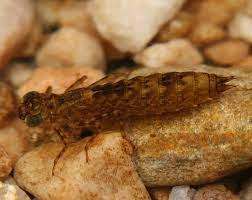
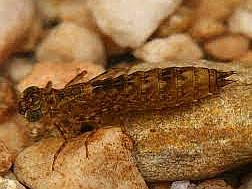
more picture work

diff --git a/catches/templates/catches/home.html b/catches/templates/catches/home.html
@@ -33,10 +33,16 @@
 		<div class="col-md-4">
 			<div class="card border-0 bg-transparent">
 				<a href="{% url 'lake_list' %}" class="card-link"> 
-					<img src="{% static 'catches/site/Mitchel.jpeg' %}" class="card-img-top border-0 rounded" width="100" height="245" alt="...">
+					<img src="{% static 'catches/site/Mitchel.jpeg' %}" class="card-img-top border-0 rounded" height="245" alt="...">
 					<div class="card-body">
-						<h5 class="card-title ">LAKES</h5>
-						<p class="card-text"><small class="text-muted">All Stocked lakes in the province</small></p>
+						<div class="row">
+							<div class="col-md-4">
+								<h5 class="card-title">LAKES</h5>
+							</div>
+							<div class="col-md-8 text-end">
+								<small class="text-muted">All Stocked lakes in the province</small>
+							</div>
+						</div>
 					</div>
 				</a>
 			</div>
@@ -44,10 +50,16 @@
 		<div class="col-md-4">
 			<div class="card border-0 bg-transparent">
 				<a href="{% url 'fish_list' %}" class="card-link">
-					<img src="{% static 'catches/site/tiger-trout.jpeg' %}" class="card-img-top border-0 rounded" width="100" height="245" alt="...">
+					<img src="{% static 'catches/site/tiger-trout.jpeg' %}" class="card-img-top border-0 rounded" height="245" alt="...">
 					<div class="card-body">
-						<h5 class="card-title">FISH</h5>
-						<p class="card-text"><small class="text-muted">The fish we catch</small></p>
+						<div class="row">
+							<div class="col-md-6">
+								<h5 class="card-title">FISH</h5>
+							</div>
+							<div class="col-md-6 text-end">
+								<small class="text-muted">The fish we catch</small>
+							</div>
+						</div>
 					</div>
 				</a>
 			</div>
@@ -55,10 +67,16 @@
 		<div class="col-md-4">
 			<div class="card border-0 bg-transparent">
 				<a href="{% url 'bug_list' %}" class="card-link">
-					<img src="{% static 'catches/site/damselfly_nymph.jpg' %}" class="card-img-top border-0 rounded" width="100" height="245" alt="...">
+					<img src="{% static 'catches/site/dragon_nymph.jpeg' %}" class="card-img-top border-0 rounded" height="245" alt="...">
 					<div class="card-body">
-						<h5 class="card-title">BUGS</h5>
-						<p class="card-text"><small class="text-muted">What the fish eat</small></p>
+						<div class="row">
+							<div class="col-md-4">
+								<h5 class="card-title">BUGS</h5>
+							</div>
+							<div class="col-md-8 text-end">
+								<small class="text-muted">What the fish eat</small>
+							</div>
+						</div>
 					</div>
 				</a>
 			</div>
@@ -68,10 +86,16 @@
 		<div class="col-md-4">
 			<div class="card border-0 bg-transparent">
 				<a href="{% url 'fly_type_list' %}" class="card-link">
-					<img src="{% static 'catches/site/Parachute.png' %}" class="card-img-top border-0 rounded" width="100" height="245" alt="...">
+					<img src="{% static 'catches/site/Parachute.png' %}" class="card-img-top border-0 rounded" height="245" alt="...">
 					<div class="card-body">
-						<h5 class="card-title">FLYS</h5>
-						<p class="card-text"><small class="text-muted">The Flys we use</small></p>
+						<div class="row">
+							<div class="col-md-4">
+								<h5 class="card-title">FLYS</h5>
+							</div>
+							<div class="col-md-8 text-end">
+								<small class="text-muted">The Flys we use</small>
+							</div>
+						</div>
 					</div>
 				</a>
 			</div>
@@ -79,10 +103,16 @@
 		<div class="col-md-4">
 			<div class="card border-0 bg-transparent">
 				<a href="{% url 'library_list' %}" class="card-link">
-					<img src="{% static 'catches/site/fly_rods.jpeg' %}" class="card-img-top border-0 rounded" width="100" height="245" alt="...">
+					<img src="{% static 'catches/site/fly_rods.jpeg' %}" class="card-img-top border-0 rounded" height="245" alt="...">
 					<div class="card-body">
-						<h5 class="card-title">LIBRARY</h5>
-						<p class="card-text"><small class="text-muted">Articles, pictures and videos.</small></p>
+						<div class="row">
+							<div class="col-md-4">
+								<h5 class="card-title">LIBRARY</h5>
+							</div>
+							<div class="col-md-8 text-end">
+								<small class="text-muted">Articles, pictures and videos.</small>
+							</div>
+						</div>
 					</div>
 				</a>
 			</div>
@@ -90,10 +120,16 @@
 		<div class="col-md-4">
 			<div class="card border-0 bg-transparent">
 				<a href="{% url 'blog-home' %}" class="card-link">
-					<img src="{% static 'catches/site/blog_pict.png' %}" class="card-img-top border-0 rounded" width="100" height="245" alt="...">
+					<img src="{% static 'catches/site/blog_pict.png' %}" class="card-img-top border-0 rounded" height="245" alt="...">
 					<div class="card-body">
-						<h5 class="card-title">BLOG</h5>
-						<p class="card-text"><small class="text-muted">Lets talk about what's going on</small></p>
+						<div class="row">
+							<div class="col-md-4">
+								<h5 class="card-title">BLOG</h5>
+							</div>
+							<div class="col-md-8 text-end">
+								<small class="text-muted">Lets talk about what's going on</small>
+							</div>
+						</div>
 					</div>
 				</a>
 			</div>

diff --git a/scripts/pictures.py b/scripts/pictures.py
@@ -1,6 +1,6 @@
 from catches.models import *
 from catches.views import *
-from PIL import Image, ImageOps, ExifTags
+from PIL import Image, ImageOps, ExifTags, ImageFilter
 from PIL.ExifTags import TAGS
 
 def reorient_img(pil_img):
@@ -16,19 +16,80 @@ def reorient_img(pil_img):
 
     return pil_img
 
-def print_exif_data(exif_data):
-    for tag_id in exif_data:
-        tag = TAGS.get(tag_id, tag_id)
-        content = exif_data.get(tag_id)
-        print(f'{tag:25}: {content}')
+def print_exif_data(exifdata):
+    for tag_id in exifdata:
+        tag = TAGS.get(tag_id,tag_id)
+        print(tag_id)
+        data = exifdata.get(tag_id)
+        # we decode bytes
+        if isinstance(data,bytes):
+            data = data.decode()
+        print(f'{tag:25}: {data}')
+
+def resize_picture (image, new_width):
+    #Resize by maintaining aspect ratio (e.g., specify the width)
+    aspect_ratio_preserved = image.resize((new_width, int(image.height * (new_width / image.width))))
+    return aspect_ratio_preserved
+
+def crop_pict (image, left, upper, right, lower ):
+    #Define the coordinates for the region to be cropped (left, upper, right, lower)
+ 
+
+    #Crop the image using the coordinates
+    cropped_image = image.crop((left, upper, right, lower))
+    return cropped_image
 
 def run():
-    image = Image.open ("public/uploads/pictures/image_kNgIFO3.jpg")
-    exif = image.getexif()
+    images = [
+        "blog_pict.png",
+        "fly_rods.jpeg",
+        "Mitchel.jpeg", #(image, 0, 44, 225, 212)
+        "tiger-trout.jpeg",  #h_crop = 40 & 300
+        "dragon_nymph.jpeg",
+        "Parachute.png",
+    ]
+    # for im_name in images:
+    #     image = Image.open ("public/assets/catches/site/back_up/" + im_name)
+    #     image_mod = resize_picture (image)
+    #     image_mod.save ("public/assets/catches/site/" + im_name)
+    #     image_mod.close()
+
+    im_name = "dragon_nymph.jpeg"
+    image = Image.open ("public/assets/catches/site/back_up/" + im_name)
+    image.save ("public/assets/catches/site/" + im_name)
+    h_crop = 5
+    image_mod = crop_pict (image, 0, h_crop, 252, h_crop+189)  #(left, upper, right, lower)
+    image_mod.save ("public/assets/catches/site/crop_" + im_name)
+    image_mod = image_mod.filter(ImageFilter.SHARPEN)
+    image_mod.save ("public/assets/catches/site/sharpen_" + im_name)
+    # image_mod = resize_picture (image_mod, 100)
+    # image_mod.save ("public/assets/catches/site/resize_" + im_name)
+
+    # image_mod.show()
+    image_mod.close()
+'''
+    im_name = "Mitchel.jpeg"
+    image = Image.open ("public/assets/catches/site/back_up/" + im_name)
+    # image.save ("public/assets/catches/site/" + im_name)
+    image_mod = crop_pict (image, 0, 44, 225, 212)  #(left, upper, right, lower)
+    # image_mod.save ("public/assets/catches/site/crop_" + im_name)
+    image_mod = image_mod.filter(ImageFilter.SHARPEN)
+    # image_mod.save ("public/assets/catches/site/sharpen_" + im_name)
+    image_mod = resize_picture (image_mod, 100)
+    image_mod.save ("public/assets/catches/site/resize_" + im_name)
+
+    # image_mod.show()
+    image_mod.close()
+'''
+
+
+
+
+    # exif = image.getexif()
     
-    print_exif_data(exif)
-    print()
-    print_exif_data(exif.get_ifd(0x8769))
+    # print_exif_data(exif)
+    # print()
+    # print_exif_data(exif.get_ifd(0x8769))
     # image.show()
     # img_exif = image.getexif()
     # print (f'{img_exif = }')
@@ -37,4 +98,6 @@ def run():
     # image_mod.show()
     # image_mod.save ("public/uploads/pictures/mods/image_kNgIFO3.jpg")
     # image_mod.close()
+
+
 
